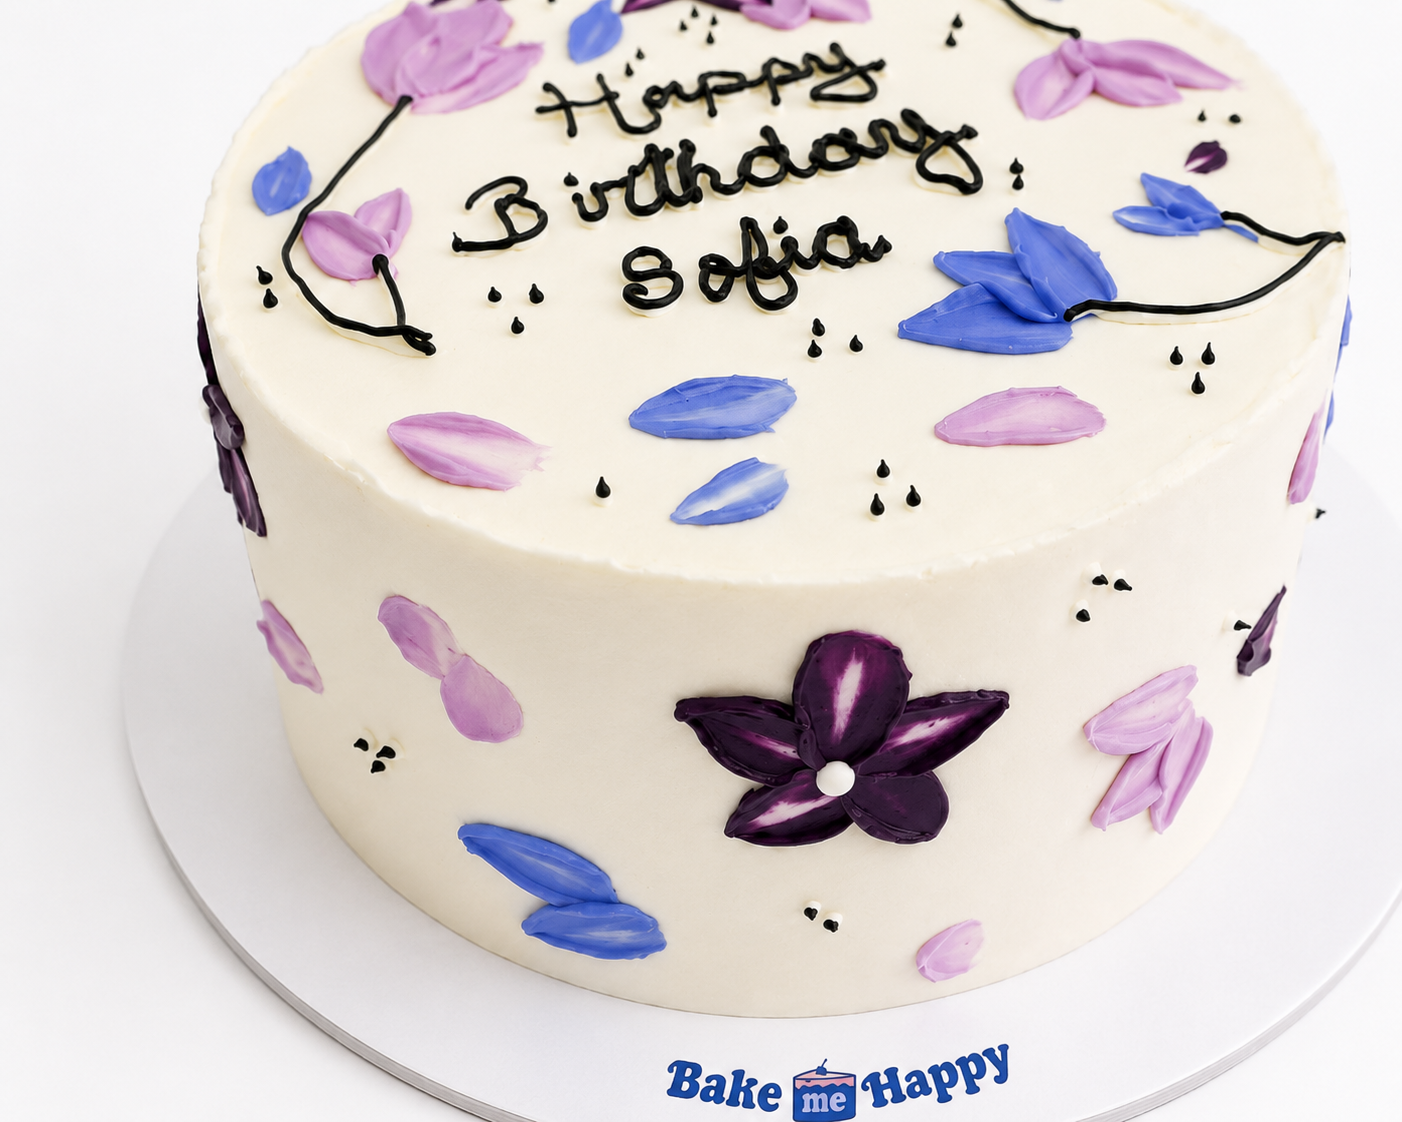
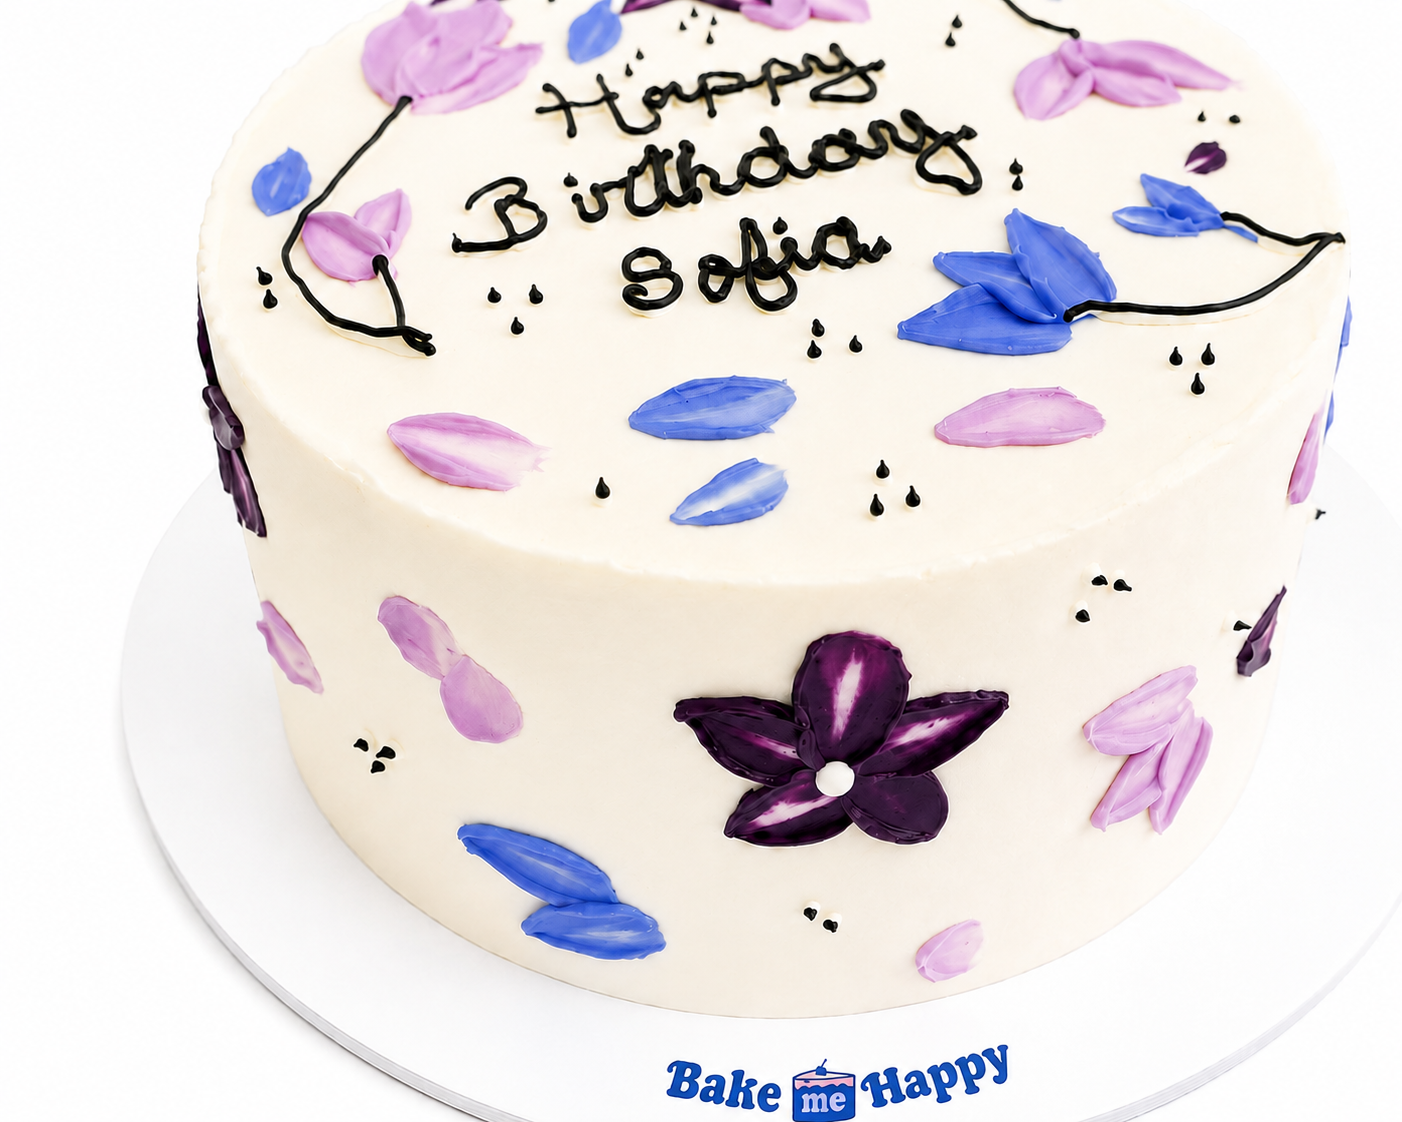
22/08/2026

diff --git a/src/data/assetVersions.generated.js b/src/data/assetVersions.generated.js
@@ -94,7 +94,7 @@ export const assetVersions = {
   "/images/webp/TORTAS/tortas tematicas/Floral deluxe/3.webp": "3b67a7b97797",
   "/images/webp/TORTAS/tortas tematicas/Flores espatuladas 2/1.webp": "0e0d05b3223d",
   "/images/webp/TORTAS/tortas tematicas/Flores espatuladas 2/2.webp": "b84657b70b5d",
-  "/images/webp/TORTAS/tortas tematicas/Flores espatuladas 2/3.webp": "825188633faa",
+  "/images/webp/TORTAS/tortas tematicas/Flores espatuladas 2/3.webp": "3369a5ecff0a",
   "/images/webp/TORTAS/tortas tematicas/Flores espatuladas 3/1.webp": "0a571342587c",
   "/images/webp/TORTAS/tortas tematicas/Flores espatuladas 3/2.webp": "66a9335f2204",
   "/images/webp/TORTAS/tortas tematicas/Flores espatuladas 3/3.webp": "1defd711831a",
@@ -173,6 +173,9 @@ export const assetVersions = {
   "/images/webp/TORTAS/tortas tematicas/Torta floreada/1.webp": "8d6ccb446627",
   "/images/webp/TORTAS/tortas tematicas/Torta floreada/2.webp": "8ef6ee4f8a68",
   "/images/webp/TORTAS/tortas tematicas/Torta floreada/3.webp": "036c83dcf777",
+  "/images/webp/TORTAS/tortas tematicas/Torta lazos y corazones/1.webp": "ce8f01e7ccbc",
+  "/images/webp/TORTAS/tortas tematicas/Torta lazos y corazones/2.webp": "bd2df2228061",
+  "/images/webp/TORTAS/tortas tematicas/Torta lazos y corazones/3.webp": "adeca4cc964a",
   "/images/webp/TORTAS/tortas tematicas/Unicornio/1.webp": "6cf1db830186",
   "/images/webp/TORTAS/tortas tematicas/Unicornio/2.webp": "476e46aa6100",
   "/images/webp/TORTAS/tortas tematicas/Unicornio/3.webp": "f5d444bd3e61",

diff --git a/src/data/products.js b/src/data/products.js
@@ -701,6 +701,7 @@ const existingProducts = [
   {
     id: 29,
     name: "Cupcakes con Fondant",
+    isVisible: false,
     description:
       "Cupcakes con buttercream y detalles personalizados en fondant.",
     category: "Complementos",
@@ -731,6 +732,7 @@ const existingProducts = [
   {
     id: 30,
     name: "Cupcakes con Fresas",
+    isVisible: false,
     description:
       "Cupcakes con buttercream, fresas frescas o mini macarons.",
     category: "Complementos",
@@ -785,6 +787,7 @@ const existingProducts = [
   {
     id: 32,
     name: "Cake Pops Complejos",
+    isVisible: false,
     description:
       "Cake pops personalizados con detalles complejos en fondant.",
     category: "Complementos",
@@ -837,6 +840,7 @@ const existingProducts = [
   {
     id: 34,
     name: "Paletas Complejas",
+    isVisible: false,
     description:
       "Paletas personalizadas con personajes o detalles complejos en fondant.",
     category: "Complementos",
@@ -862,12 +866,17 @@ const existingProducts = [
   },
 ];
 
-export const products = [
+const allProducts = [
   ...thematicProducts,
   ...existingProducts.filter(
     (product) => product.category !== "Tortas tematicas",
   ),
 ];
+
+// Los productos ocultos conservan toda su configuración para poder reactivarlos.
+export const products = allProducts.filter(
+  (product) => product.isVisible !== false,
+);
 
 export const categories = [
   "Tortas clasicas",

diff --git a/src/data/thematicProducts.js b/src/data/thematicProducts.js
@@ -619,4 +619,18 @@ export const thematicProducts = [
       "30 porciones - Large: S/ 300",
     ],
   }),
+  createThematicProduct({
+    id: 144,
+    name: "Torta Lazos y Corazones",
+    folder: "Torta lazos y corazones",
+    description: "Torta decorada con buttercream y lacitos de tela.",
+    occasions: ["PARA EL", "PARA ELLA", "BODAS"],
+    tags: ["Lazos", "Corazones"],
+    prices: [
+      "Tiny cake: S/ 90",
+      "Small: S/ 120",
+      "Medium: S/ 160",
+      "Large: S/ 200",
+    ],
+  }),
 ];

diff --git a/src/data/productImageFolders.generated.js b/src/data/productImageFolders.generated.js
@@ -54,6 +54,7 @@ export const productImageFolders = [
   "/images/webp/TORTAS/tortas tematicas/Suit Village",
   "/images/webp/TORTAS/tortas tematicas/Tiny friends",
   "/images/webp/TORTAS/tortas tematicas/Torta floreada",
+  "/images/webp/TORTAS/tortas tematicas/Torta lazos y corazones",
   "/images/webp/TORTAS/tortas tematicas/Unicornio",
   "/images/webp/TORTAS/tortas tematicas/Vintage love",
   "/images/webp/TORTAS/tortas tematicas/Vintage Maria",

diff --git a/src/components/BestSellers.jsx b/src/components/BestSellers.jsx
@@ -4,7 +4,7 @@ import Reveal from "./Reveal";
 import SectionHeading from "./SectionHeading";
 import { products } from "../data/products";
 
-const bestSellerProductIds = [101, 103, 7, 8];
+const bestSellerProductIds = [110, 103, 7, 114];
 const bestSellerProducts = bestSellerProductIds
   .map((productId) => products.find((product) => product.id === productId))
   .filter(Boolean);

diff --git a/src/components/Hero.jsx b/src/components/Hero.jsx
@@ -4,13 +4,6 @@ import AssetImage from "./AssetImage";
 
 const HERO_SLIDES = [
   {
-    src: "/images/webp/hero 1.webp",
-    position:
-      "object-[86%_top] sm:object-[93%_top] lg:object-[68%_45%]",
-    mobileTop: "-7%",
-    mobileHeight: "107%",
-  },
-  {
     src: "/images/webp/hero 2.webp",
     position:
       "object-[83%_50%] sm:object-[90%_34%] lg:object-[68%_50%]",
